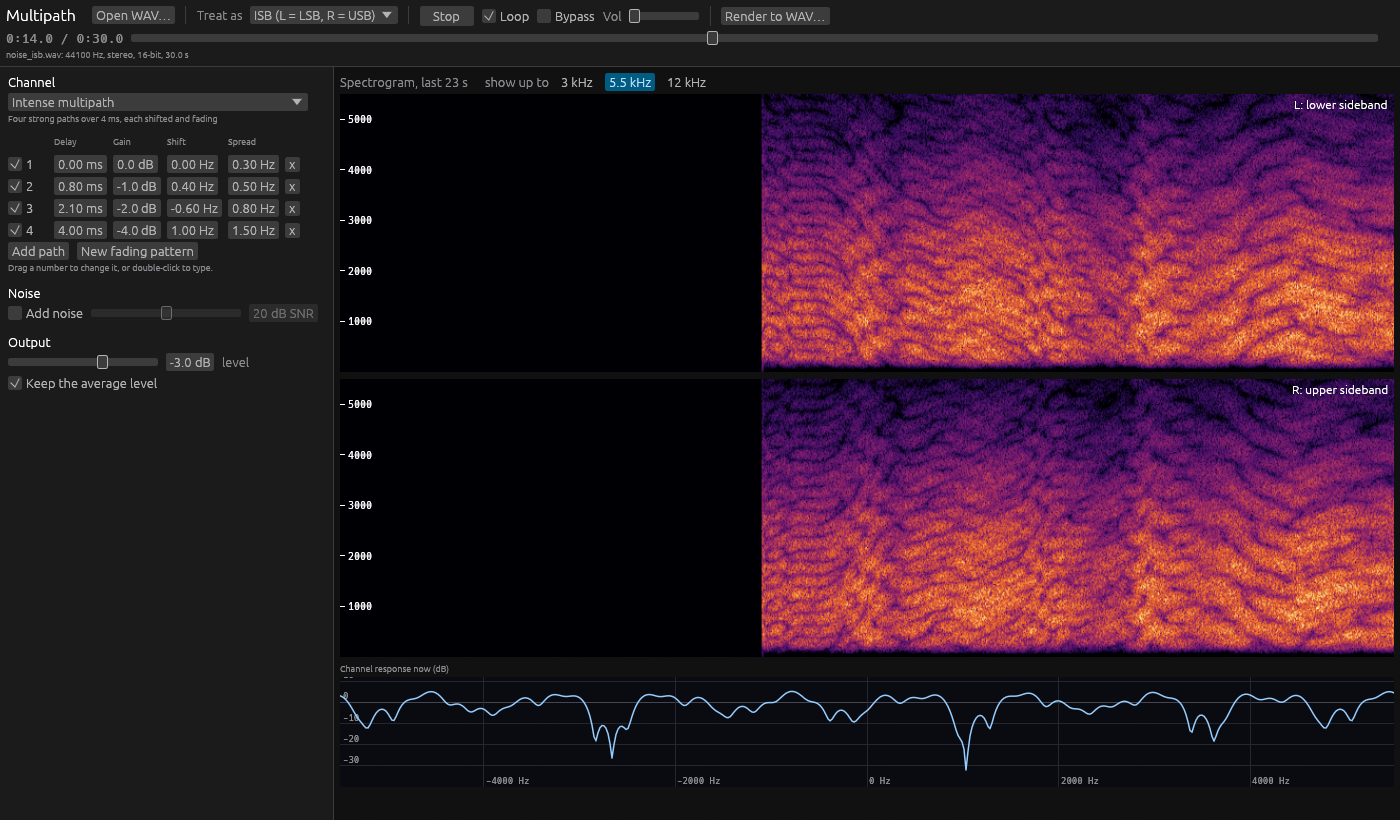
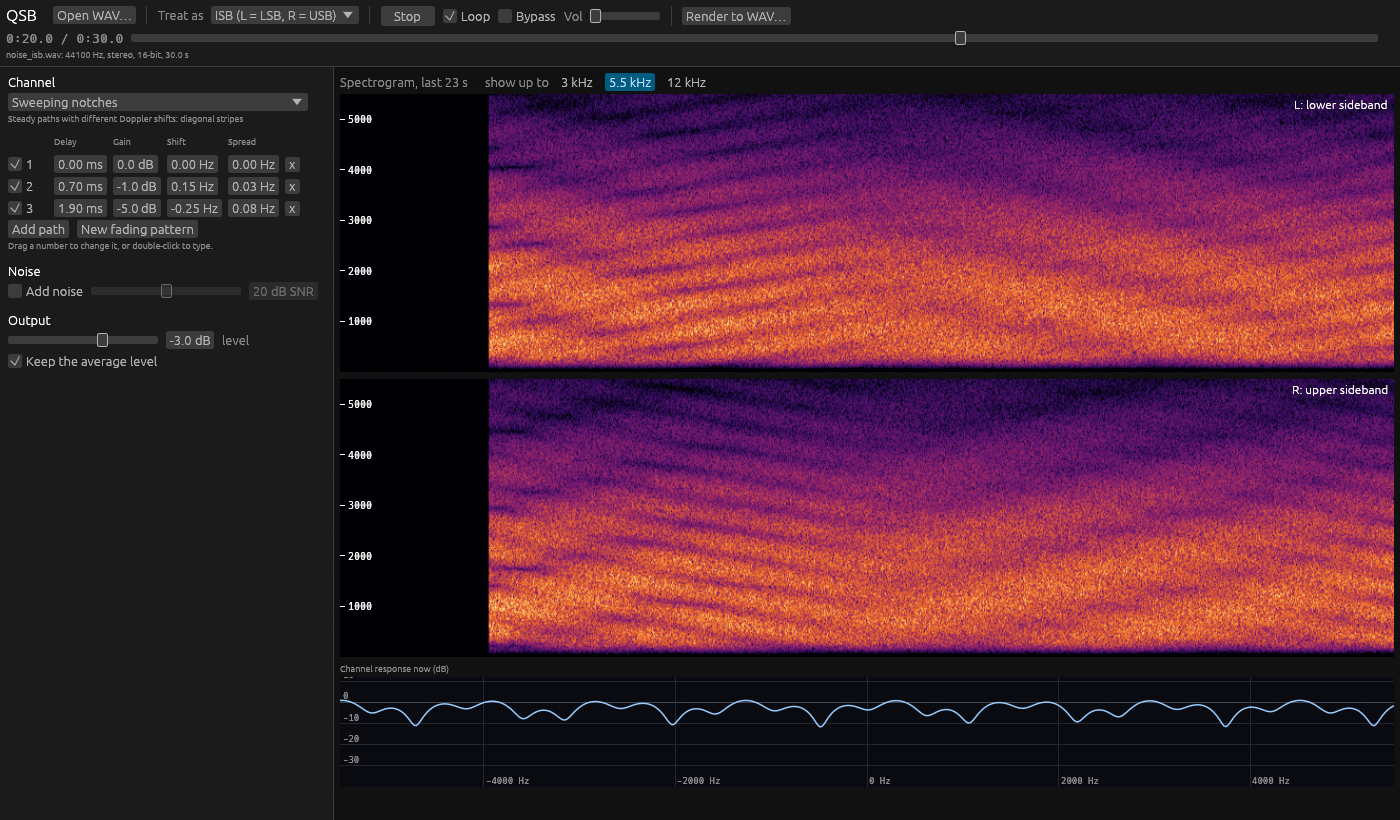
Rename to QSB
The Q-code for a fading signal. Crate, exe, window title, README.

diff --git a/src/main.rs b/src/main.rs
@@ -1,11 +1,11 @@
 #![cfg_attr(all(windows, not(debug_assertions)), windows_subsystem = "windows")]
-//! Multipath: put a WAV file through a simulated HF channel (echoes, Doppler shift,
+//! QSB (the Q-code for a fading signal): put a WAV file through a simulated HF channel (echoes, Doppler shift,
 //! fading, noise), listen to it while moving the sliders, and write the result.
 //!
-//! `multipath [FILE.wav] [--preset NAME] [--mode audio|iq|isb] [--seed N]`
+//! `qsb [FILE.wav] [--preset NAME] [--mode audio|iq|isb] [--seed N]`
 //! `          [--play] [--mute] [--screenshot OUT.png --after SECS]`
-//! `multipath --render IN.wav OUT.wav [--preset NAME] [--mode M] [--seed N] [--snr DB]`
-//! `multipath --spectrogram IN.wav OUT.png [--mode M]`
+//! `qsb --render IN.wav OUT.wav [--preset NAME] [--mode M] [--seed N] [--snr DB]`
+//! `qsb --spectrogram IN.wav OUT.png [--mode M]`
 
 mod channel;
 mod player;
@@ -137,7 +137,7 @@ impl App {
         let stem = file.file_stem().unwrap_or_default().to_string_lossy();
         let mut dialog = rfd::FileDialog::new()
             .add_filter("WAV", &["wav"])
-            .set_file_name(format!("{stem}_multipath.wav"));
+            .set_file_name(format!("{stem}_qsb.wav"));
         if let Some(dir) = file.parent() {
             dialog = dialog.set_directory(dir);
         }
@@ -163,7 +163,7 @@ impl App {
     // ---------------------------------------------------------------- top bar
     fn top_bar(&mut self, ui: &mut Ui) {
         ui.horizontal(|ui| {
-            ui.label(RichText::new("Multipath").strong().color(Color32::WHITE).size(16.0));
+            ui.label(RichText::new("QSB").strong().color(Color32::WHITE).size(16.0));
             ui.add_space(8.0);
             if ui.button("Open WAV…").clicked()
                 && let Some(p) = rfd::FileDialog::new()
@@ -825,7 +825,7 @@ fn main() -> eframe::Result {
     let mut viewport = egui::ViewportBuilder::default()
         .with_inner_size([1400.0, 820.0])
         .with_min_inner_size([980.0, 560.0])
-        .with_title("Multipath")
+        .with_title("QSB")
         .with_drag_and_drop(true);
     // The window's icon (assets/icon.png, drawn by scripts/make-icon.py).
     if let Ok(icon) = image::load_from_memory(include_bytes!("../assets/icon.png")) {
@@ -841,7 +841,7 @@ fn main() -> eframe::Result {
         ..Default::default()
     };
     eframe::run_native(
-        "Multipath",
+        "QSB",
         options,
         Box::new(move |cc| {
             cc.egui_ctx.set_theme(egui::Theme::Dark);

diff --git a/build.rs b/build.rs
@@ -8,8 +8,8 @@ fn main() {
         {
             let mut res = winresource::WindowsResource::new();
             res.set_icon("assets/icon.ico");
-            res.set("ProductName", "Multipath");
-            res.set("FileDescription", "Multipath: HF channel simulator for WAV files");
+            res.set("ProductName", "QSB");
+            res.set("FileDescription", "QSB: HF fading and multipath for WAV files");
             if let Err(e) = res.compile() {
                 // A missing resource compiler must not stop the build: the exe just has no icon.
                 println!("cargo:warning=could not embed the exe icon: {e}");

diff --git a/README.md b/README.md
@@ -1,10 +1,14 @@
-# Multipath
+<img src="assets/icon.png" width="96" align="right" alt="QSB icon">
+
+# QSB
+
+QSB is the Q-code for "your signal is fading".
 
 Puts a WAV file through a simulated HF radio channel: echoes, Doppler shift, fading
 and noise, from light slow fading to heavy multipath. You hear and see the result
 while you move the controls, then write it to a new WAV.
 
-![The window playing an ISB file through the "Intense multipath" preset](docs/screenshot.png)
+![The window playing an ISB file through the "Sweeping notches" preset](docs/screenshot.png)
 
 ## Using it
 
@@ -54,9 +58,9 @@ against the file's average level.
 ## Command line
 
 ```
-multipath [FILE.wav] [--preset NAME] [--mode audio|iq|isb] [--seed N] [--play] [--mute]
-multipath --render IN.wav OUT.wav [--preset NAME] [--mode M] [--seed N] [--snr DB]
-multipath --spectrogram IN.wav OUT.png [--mode M]
+qsb [FILE.wav] [--preset NAME] [--mode audio|iq|isb] [--seed N] [--play] [--mute]
+qsb --render IN.wav OUT.wav [--preset NAME] [--mode M] [--seed N] [--snr DB]
+qsb --spectrogram IN.wav OUT.png [--mode M]
 ```
 
 ## Building
@@ -66,6 +70,6 @@ cargo build --release
 powershell -ExecutionPolicy Bypass -File scripts\build-portable.ps1
 ```
 
-The second makes a portable `exe\multipath.exe` (nothing to install).
+The second makes a portable `exe\qsb.exe` (nothing to install).
 
 GPL-3.0-or-later.
